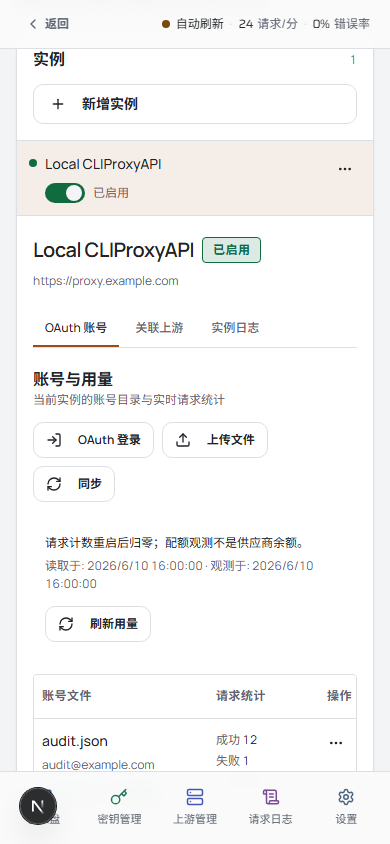
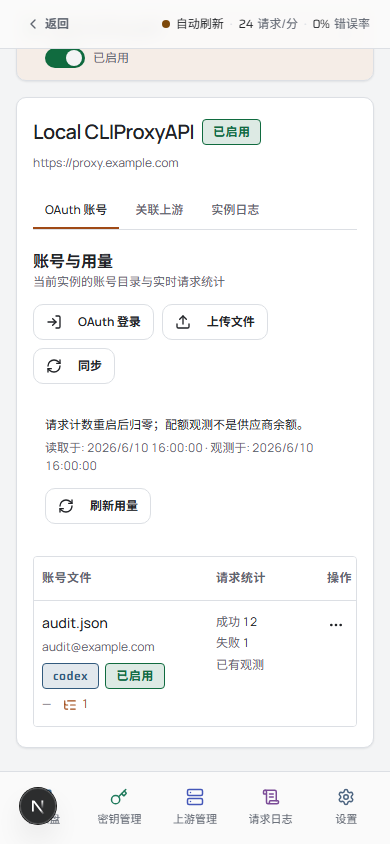
fix(cliproxy): 调整单实例与多实例工作台比例

diff --git a/src/app/[locale]/(dashboard)/system/cliproxy/page.tsx b/src/app/[locale]/(dashboard)/system/cliproxy/page.tsx
@@ -42,6 +42,8 @@ export default function CliproxyPage() {
   const morphSourceRef = useRef<HTMLElement | null>(null);
   const selectedInstance =
     instances?.find((instance) => instance.id === selectedInstanceId) ?? instances?.[0] ?? null;
+  const singleInstance = instances?.length === 1;
+  const narrowWorkspace = (instances?.length ?? 0) <= 1;
 
   const selectInstance = (instance: CliproxyInstance) => {
     setSelectedInstanceId(instance.id);
@@ -58,16 +60,34 @@ export default function CliproxyPage() {
     <>
       <Topbar title={t("pageTitle")} />
 
-      <PageShell maxWidth="full" className="space-y-5">
+      <PageShell maxWidth={narrowWorkspace ? "4xl" : "7xl"} className="space-y-5">
         <PageHeader title={t("pageTitle")} description={t("pageDescription")} />
 
-        <div className="grid min-w-0 overflow-hidden rounded-cf-md border border-divider bg-card shadow-[var(--vr-shadow-xs)] lg:grid-cols-[18rem_minmax(0,1fr)]">
+        <div
+          className={cn(
+            "grid min-w-0 gap-4 xl:items-start",
+            singleInstance ? "xl:grid-cols-1" : "xl:grid-cols-[14rem_minmax(0,1fr)]"
+          )}
+        >
           <aside
-            className="min-w-0 border-b border-divider lg:border-b-0 lg:border-r"
+            className={cn(
+              "min-w-0 overflow-hidden rounded-cf-md border border-divider bg-card shadow-[var(--vr-shadow-xs)]",
+              singleInstance && "xl:flex xl:flex-row-reverse xl:items-center xl:justify-between"
+            )}
             aria-label={t("instancesTitle")}
           >
-            <div className="space-y-3 border-b border-divider px-4 py-4">
-              <div className="flex items-center justify-between gap-2">
+            <div
+              className={cn(
+                "space-y-3 border-b border-divider px-4 py-4",
+                singleInstance && "xl:border-b-0 xl:py-3"
+              )}
+            >
+              <div
+                className={cn(
+                  "flex items-center justify-between gap-2",
+                  singleInstance && "xl:sr-only"
+                )}
+              >
                 <h2 className="type-title-medium text-foreground">{t("instancesTitle")}</h2>
                 <span className="type-body-small tabular-nums text-muted-foreground">
                   {instances?.length ?? 0}
@@ -75,7 +95,7 @@ export default function CliproxyPage() {
               </div>
               <Button
                 variant="outline"
-                className="w-full justify-start"
+                className={cn("w-full justify-start", singleInstance && "xl:w-auto")}
                 onClick={(event) => {
                   const source = event.currentTarget;
                   morphSourceRef.current = source;
@@ -91,50 +111,57 @@ export default function CliproxyPage() {
               </Button>
             </div>
 
-            <QueryStatus
-              error={isError}
-              fetching={isFetching && !isLoading}
-              hasData={instances !== undefined}
-              onRetry={() => void refetch()}
-            />
-            {isLoading ? (
-              <div className="space-y-2 p-3">
-                <Skeleton className="h-20 w-full" />
-                <Skeleton className="h-20 w-full" />
-              </div>
-            ) : isError && !instances ? null : !instances || instances.length === 0 ? (
-              <p className="px-4 py-8 type-body-small text-muted-foreground">{t("noInstances")}</p>
-            ) : (
-              <CliproxyInstancesTable
-                instances={instances}
-                selectedInstanceId={selectedInstance?.id ?? null}
-                onSelect={selectInstance}
-                onEdit={(instance, source) => {
-                  morphSourceRef.current = source;
-                  startMorph(() => setEditInstance(instance), {
-                    source,
-                    name: "morph-cliproxy-instance",
-                    mode: "enter",
-                  });
-                }}
-                onTest={setTestInstance}
-                onCreatePoolUpstream={setPoolUpstreamInstance}
-                onDelete={(instance, source) => {
-                  morphSourceRef.current = source;
-                  startMorph(() => setDeleteInstance(instance), {
-                    source,
-                    name: "morph-cliproxy-instance",
-                    mode: "enter",
-                  });
-                }}
+            <div className={cn("min-w-0", singleInstance && "xl:w-[34rem]")}>
+              <QueryStatus
+                error={isError}
+                fetching={isFetching && !isLoading}
+                hasData={instances !== undefined}
+                onRetry={() => void refetch()}
               />
-            )}
+              {isLoading ? (
+                <div className="space-y-2 p-3">
+                  <Skeleton className="h-20 w-full" />
+                  <Skeleton className="h-20 w-full" />
+                </div>
+              ) : isError && !instances ? null : !instances || instances.length === 0 ? (
+                <p className="px-4 py-8 type-body-small text-muted-foreground">
+                  {t("noInstances")}
+                </p>
+              ) : (
+                <CliproxyInstancesTable
+                  instances={instances}
+                  selectedInstanceId={selectedInstance?.id ?? null}
+                  onSelect={selectInstance}
+                  onEdit={(instance, source) => {
+                    morphSourceRef.current = source;
+                    startMorph(() => setEditInstance(instance), {
+                      source,
+                      name: "morph-cliproxy-instance",
+                      mode: "enter",
+                    });
+                  }}
+                  onTest={setTestInstance}
+                  onCreatePoolUpstream={setPoolUpstreamInstance}
+                  onDelete={(instance, source) => {
+                    morphSourceRef.current = source;
+                    startMorph(() => setDeleteInstance(instance), {
+                      source,
+                      name: "morph-cliproxy-instance",
+                      mode: "enter",
+                    });
+                  }}
+                />
+              )}
+            </div>
           </aside>
 
-          <section className="min-w-0 px-4 py-5 sm:px-6" aria-label={t("workspaceTitle")}>
+          <section
+            className="min-w-0 rounded-cf-md border border-divider bg-card px-4 py-5 shadow-[var(--vr-shadow-xs)] sm:px-6"
+            aria-label={t("workspaceTitle")}
+          >
             {selectedInstance ? (
               <div key={selectedInstance.id} className="min-w-0 space-y-5 content-enter">
-                <header className="space-y-2">
+                <header className={cn("space-y-2", singleInstance && "xl:hidden")}>
                   <div className="flex flex-wrap items-center gap-2">
                     <h2 className="min-w-0 break-words text-xl font-semibold tracking-tight text-foreground">
                       {selectedInstance.name}

diff --git a/tests/e2e/application-cli.spec.ts b/tests/e2e/application-cli.spec.ts
@@ -112,3 +112,48 @@ test("account usage failure keeps account management and secondary views availab
   await page.getByRole("tab", { name: "Instance Logs" }).click();
   await expect(page.getByText("2026-06-10 08:00:00 INFO Local fixture ready")).toBeVisible();
 });
+
+test("multiple instances keep account names readable at 1024px", async ({ page }) => {
+  await page.setViewportSize({ width: 1024, height: 844 });
+  await seedTheme(page, "light");
+  await mockApplicationPages(page);
+  const date = "2026-06-10T16:00:00.000Z";
+  await page.route("**/api/admin/cliproxy/instances", (route) =>
+    route.fulfill({
+      json: {
+        data: [
+          ["instance-audit", "Local CLIProxyAPI", "https://proxy.example.com"],
+          ["instance-b", "Team Proxy", "https://team.example.com"],
+          ["instance-c", "Backup Proxy", "https://backup.example.com"],
+        ].map(([id, name, base_url]) => ({
+          id,
+          name,
+          base_url,
+          management_url: base_url,
+          mode: "external",
+          has_client_api_key: true,
+          has_management_key: true,
+          enabled: true,
+          description: null,
+          created_at: date,
+          updated_at: date,
+        })),
+      },
+    })
+  );
+
+  await page.goto("/en/system/cliproxy");
+  await expect(page.getByRole("button", { name: "Team Proxy" })).toBeVisible();
+  const accountName = page
+    .getByRole("row")
+    .filter({ hasText: "audit@example.com" })
+    .getByText("audit.json", { exact: true });
+  await expect(accountName).toBeVisible();
+  const lineCount = await accountName.evaluate((element) => {
+    const range = document.createRange();
+    range.selectNodeContents(element);
+    return range.getClientRects().length;
+  });
+  expect(lineCount).toBe(1);
+  expect(await page.evaluate(() => document.body.scrollWidth)).toBeLessThanOrEqual(1024);
+});

diff --git a/src/components/admin/cliproxy-instances-table.tsx b/src/components/admin/cliproxy-instances-table.tsx
@@ -113,7 +113,12 @@ export function CliproxyInstancesTable({
                       }
                       aria-label={instance.enabled ? t("statusEnabled") : t("statusDisabled")}
                     />
-                    <span className="type-body-small text-muted-foreground">
+                    <span
+                      className={cn(
+                        "type-body-small text-muted-foreground",
+                        instances.length > 1 && "xl:hidden"
+                      )}
+                    >
                       {instance.enabled ? t("statusEnabled") : t("statusDisabled")}
                     </span>
                   </div>

diff --git a/openspec/changes/archive/2026-09-23-cliproxy-account-usage-workbench/design.md b/openspec/changes/archive/2026-09-23-cliproxy-account-usage-workbench/design.md
@@ -18,16 +18,23 @@
 
 ### 主工作区和次级视图
 
-桌面以约 18rem 的实例选择栏和弹性账号工作区组成两列；窄屏改为纵向布局。账号面板上方展示数据含义、读取时间、刷新状态，账号行以文件名／邮箱、状态和请求计数为主，更多信息与近期分桶、配额信号在详情中展开。次级视图以“账号”“关联上游”“实例日志”切换，只有可见视图装载其数据。实例项保留启停与操作菜单，账号项保留模型、下载、启停、编辑、映射与删除入口。
+单实例时，桌面将实例选择压成工作区上方的横向栏，并收紧页面最大宽度；多实例且视口至少 1280px 时，使用约 14rem 的独立实例栏与弹性账号工作区。更窄的视口纵向排列两个区域，避免实例栏挤压账号表。实例栏按内容高度结束，不随账号工作区拉伸。账号面板上方展示数据含义、读取时间、刷新状态，账号行以文件名／邮箱、状态和请求计数为主，更多信息与近期分桶、配额信号在详情中展开。次级视图以“账号”“关联上游”“实例日志”切换，只有可见视图装载其数据。实例项保留启停与操作菜单，账号项保留模型、下载、启停、编辑、映射与删除入口。
 
 ```text
-桌面：
-┌ 实例选择 ──────────┐  ┌ 当前实例 · 地址 ─────────────────────────────┐
-│ + 新增实例         │  │ 账号  关联上游  实例日志                      │
-│ ● Local CLIProxy  ⋯│  │                                      刷新用量 │
-│ ○ 其他实例        ⋯│  │ 请求统计说明 · 本次读取时间                    │
-│                   │  │ 账号 / 状态 / 成功·失败 / 模型 / 操作           │
-└───────────────────┘  └─────────────────────────────────────────────────┘
+单实例桌面：
+┌ 当前实例 · 地址 · 状态 ──────────────── + 新增实例 ┐
+└───────────────────────────────────────────────────┘
+┌ 账号  关联上游  实例日志 ──────────────────────────┐
+│ 请求统计说明 · 本次读取时间 · 刷新用量              │
+│ 账号 / 状态 / 成功·失败 / 模型 / 操作               │
+└───────────────────────────────────────────────────┘
+
+多实例宽屏：
+┌ 实例选择 ───────┐  ┌ 当前实例 · 地址 ────────────────┐
+│ + 新增实例      │  │ 账号  关联上游  实例日志         │
+│ ● 当前实例   ⋯  │  │ 请求统计 · 读取时间 · 刷新用量   │
+│ ○ 其他实例   ⋯  │  │ 账号 / 状态 / 用量 / 操作        │
+└────────────────┘  └─────────────────────────────────┘
 
 窄屏：
 ┌ 实例选择 · + ─────┐
